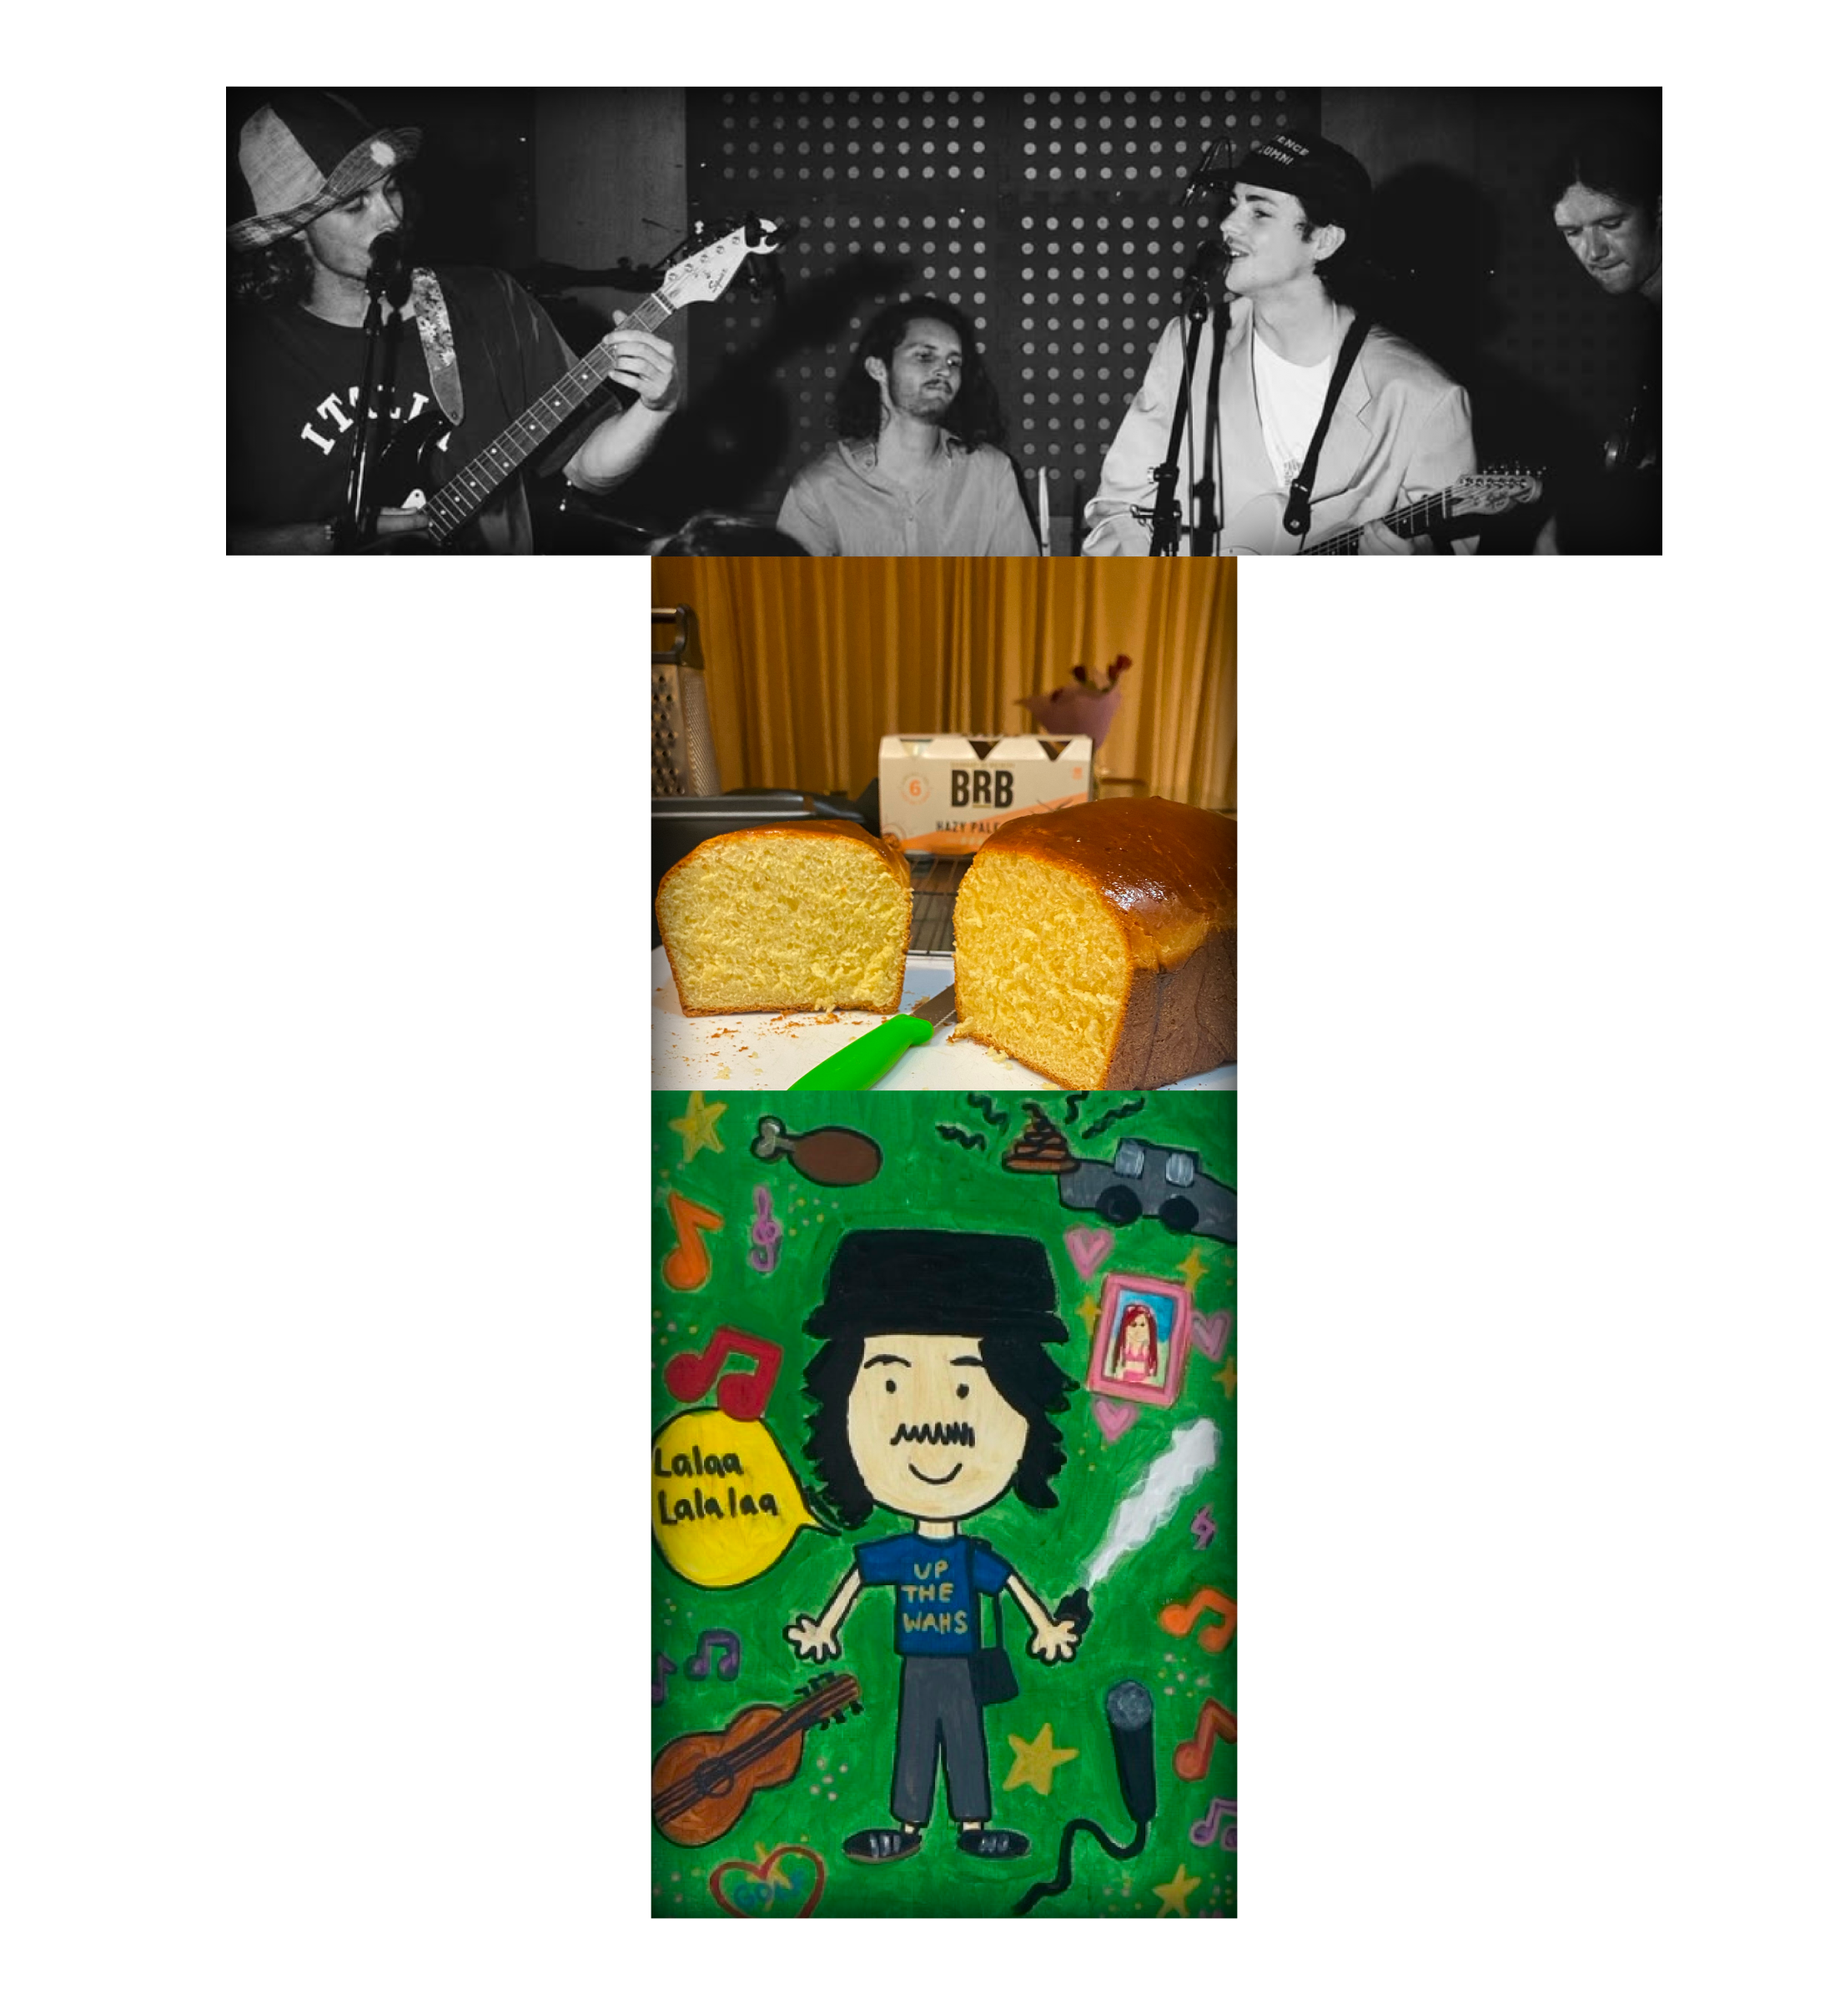
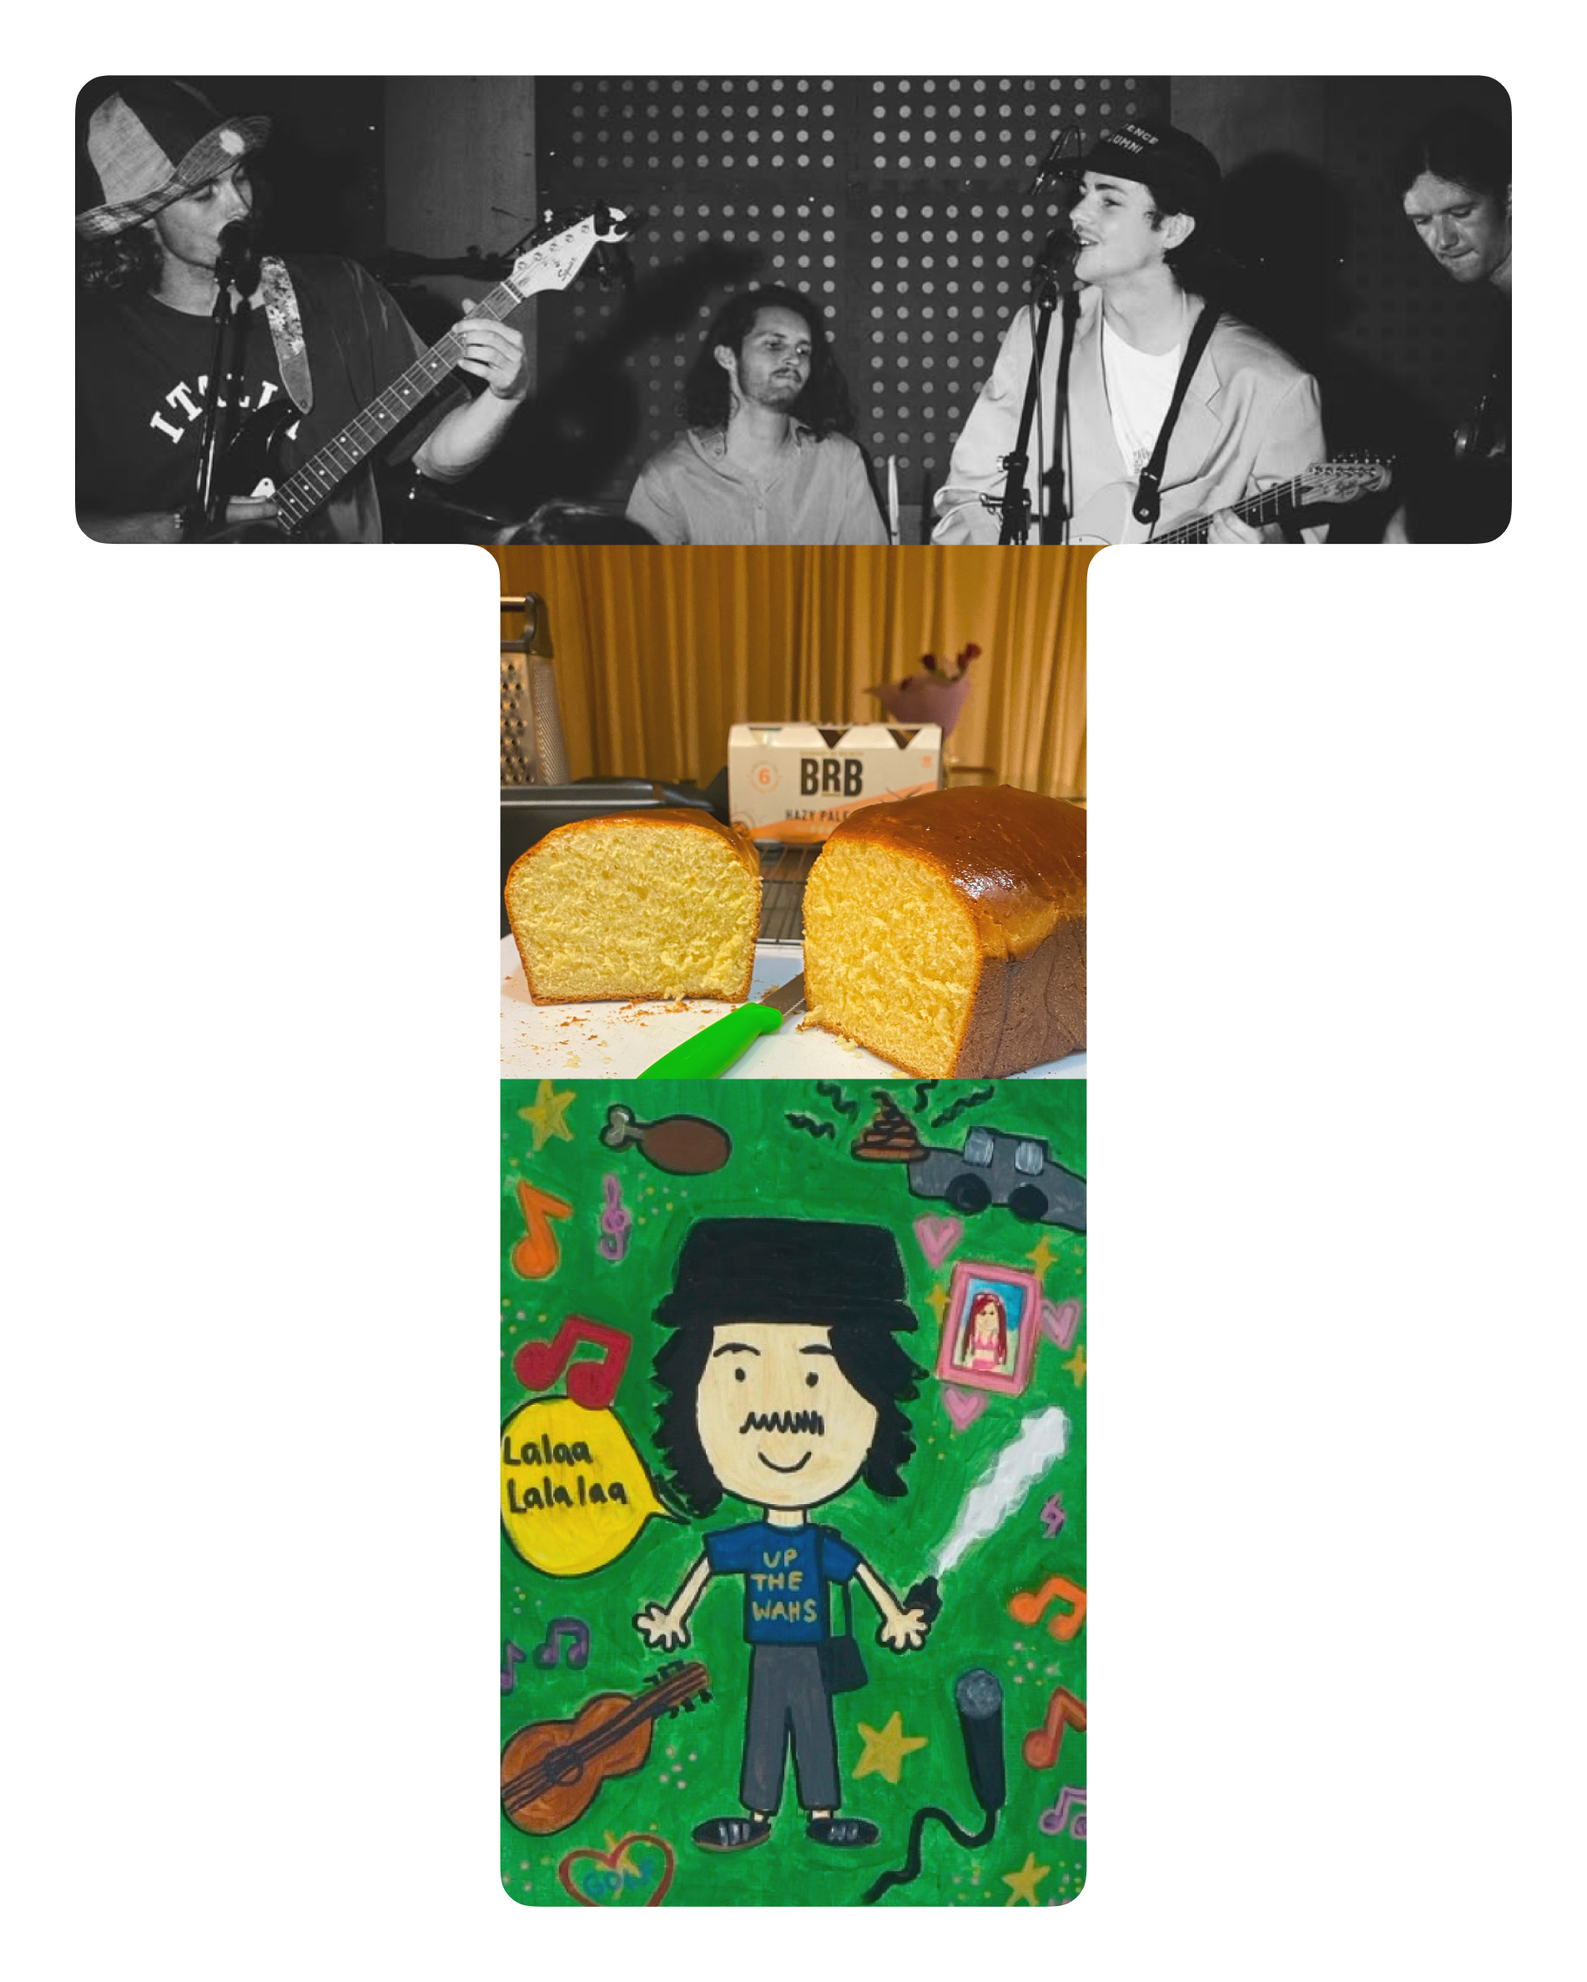
couple more spacing updates

Changed region(s): [[0.031, 0.0311, 0.9616, 0.9655]]

diff --git a/index.html b/index.html
@@ -15,7 +15,7 @@
     <title>Taine Buchan Blog</title>
   </head>
   <body>
-    <header>
+    <header class="header">
       <p>Taine Buchan Blog</p>
       <nav>
         <ul>
@@ -34,58 +34,58 @@
             <a href="blog/10-foundations-reflection.html"
               >Foundations Reflection</a
             >
-            <p>10 Feb 25</p>
+            <p id="date"></p>
           </li>
 
           <li class="highlight">
             <a href="blog/09-problem-solving.html">Problem Solving</a>
-            <p>3 Feb 25</p>
+            <p id="date">7 Feb 25</p>
           </li>
 
           <li class="highlight">
             <a href="blog/08-te-whare-tapa-wha.html">Te Whare Tapa Whā </a>
-            <p>29 Jan 25</p>
+            <p id="date">29 Jan 25</p>
           </li>
 
           <li class="highlight">
             <a href="blog/07-neuroplasticity-and-growth-mindset.html"
               >Neuroplasticity and Growth Mindset
             </a>
-            <p>28 Jan 25</p>
+            <p id="date">28 Jan 25</p>
           </li>
 
           <li class="highlight">
             <a href="/blog/06-JavaScript-and-the-Dom.html"
               >Javascript Technical Blog</a
             >
-            <p>24 Jan 25</p>
+            <p id="date">24 Jan 25</p>
           </li>
 
           <li class="highlight">
             <a href="/blog/05-Emotional Intelligence (EQ).html"
               >Emotional Intelligence</a
             >
-            <p>20 Jan 25</p>
+            <p id="date">20 Jan 25</p>
           </li>
 
           <li class="highlight">
             <a href="/blog/04-identity-values.html">Identity & Values</a>
-            <p>17 Jan 25</p>
+            <p id="date">17 Jan 25</p>
           </li>
 
           <li class="highlight">
             <a href="/blog/03-css-concepts.html">Learning Plan</a>
-            <p>16 Jan 25</p>
+            <p id="date">16 Jan 25</p>
           </li>
 
           <li class="highlight">
             <a href="/blog/02-socks-as-classes.html">Classes vs IDs</a>
-            <p>16 Jan 25</p>
+            <p id="date">16 Jan 25</p>
           </li>
 
           <li class="highlight">
             <a href="/blog/about-me.html">Hey, thanks for stopping by</a>
-            <p>13 Jan 25</p>
+            <p id="date">13 Jan 25</p>
           </li>
         </ul>
       </section>
@@ -95,7 +95,7 @@
       <img src="images/tainemask.png" alt="Me and the band" />
     </section>
 
-    <footer id="footer">
+    <footer id="footer" class="radius">
       <a href="/images/jim.jpeg" target="_blank"> <p>© Taine Buchan Blog</p></a>
       <div class="social-container">
         <a
@@ -115,5 +115,7 @@
         </a>
       </div>
     </footer>
+
+    <script src="script.js"></script>
   </body>
 </html>

diff --git a/styles/main.css b/styles/main.css
@@ -13,7 +13,7 @@ body {
   max-width: 100vw;
   min-height: 100vh;
   margin: auto;
-  padding: 1rem 2rem 0rem;
+  padding: 0rem 2rem 0rem;
   display: flex;
   flex-direction: column;
   overflow-x: hidden;
@@ -51,6 +51,12 @@ header {
   display: flex;
   align-items: center;
   justify-content: space-between;
+  opacity: 80%;
+  color: #000000;
+  border-bottom-right-radius: 4px;
+  border-bottom-left-radius: 4px;
+  height: 2rem;
+  padding-top: 1rem;
 }
 
 nav ul {
@@ -59,12 +65,16 @@ nav ul {
   gap: 1rem;
 }
 
+nav a {
+  color: rgb(0, 0, 0);
+}
+
 .year {
   margin-bottom: 1rem;
 }
 
 .highlight {
-  padding: 0.4rem 0.8rem;
+  padding: 0.8rem 2rem;
   transition: background-color 0.3s ease;
 }
 
@@ -74,7 +84,7 @@ nav ul {
 }
 
 .highlight:hover a {
-  color: white;
+  color: rgb(255, 255, 255);
 }
 
 .blog-container {
@@ -90,7 +100,7 @@ nav ul {
 }
 
 .blog-container li {
-  border-top: 1px solid black;
+  border-top: 1px solid rgba(0, 0, 0, 0.828);
   display: flex;
   justify-content: space-between;
   gap: 1rem;
@@ -102,7 +112,6 @@ nav ul {
   align-items: center;
   text-align: right;
   text-wrap: nowrap;
-  opacity: 60%;
   font-size: 1rem;
 }
 
@@ -122,9 +131,13 @@ nav ul {
   .blog-container ul {
     font-size: 1.2rem;
   }
-
   .blog-container p {
     font-size: 0.8rem;
+  }
+
+  .highlight {
+    padding: 0.6rem 1.8rem;
+    transition: background-color 0.3s ease;
   }
 }
 
@@ -170,10 +183,14 @@ nav ul {
 }
 
 footer {
-  padding: 0.5rem 2rem;
   display: flex;
   justify-content: space-between;
+  align-items: center;
   margin-top: auto;
+  border-top-left-radius: 4px;
+  border-top-right-radius: 4px;
+  height: 4rem;
+  padding: 1rem 2rem;
   background-color: rgb(0, 0, 0);
 }
 

diff --git a/script.js b/script.js
@@ -1,0 +1,32 @@
+let blogDate = document.getElementById('date')
+let body = document.querySelector('body')
+
+function generateDate() {
+  let monthArray = [
+    'Jan',
+    'Feb',
+    'Mar',
+    'Apr',
+    'May',
+    'Jun',
+    'Jul',
+    'Aug',
+    'Sep',
+    'Oct',
+    'Nov',
+    'Dec',
+  ]
+
+  if (blogDate.textContent === '') {
+    const date = new Date()
+
+    let day = date.getDate()
+    let month = date.getMonth()
+    let year = date.getFullYear() % 100 // I only want the last two digits of the year so 2025 % 100 becomes 25.
+    let fullDate = `${day} ${monthArray[month]} ${year}`
+
+    blogDate.textContent = fullDate
+  }
+}
+
+generateDate()

diff --git a/blog/10-foundations-reflection.html b/blog/10-foundations-reflection.html
@@ -30,9 +30,9 @@
           <ul>
             <li>
               I use my strengths to protect my ego. When I find something too
-              hard, I avoid it by doing something I’m already good at, like
-              music. This helps me feel competent, but it also means I might
-              avoid necessary growth.
+              hard, I avoid it by doing something that makes me feel
+              comfortable, like picking up a guitar. In the moment it makes me
+              feel competent, but it also means I stray from necessary growth.
             </li>
             <li>
               I tie my worth to how much I know. When someone tries to help me,

diff --git a/blog/03-css-concepts.html b/blog/03-css-concepts.html
@@ -31,10 +31,7 @@
         <section>
           <h2>What is your long-term goal or career pathway?</h2>
           <p>
-            My goal is to become a software developer, focusing on the web side
-            of things. I'd like to combine my creative skills with programming
-            to build user-friendly and applications. Eventually, my aim is to
-            become a front-end developer.
+            My goal is to become a software developer, somewhere
           </p>
         </section>
 
